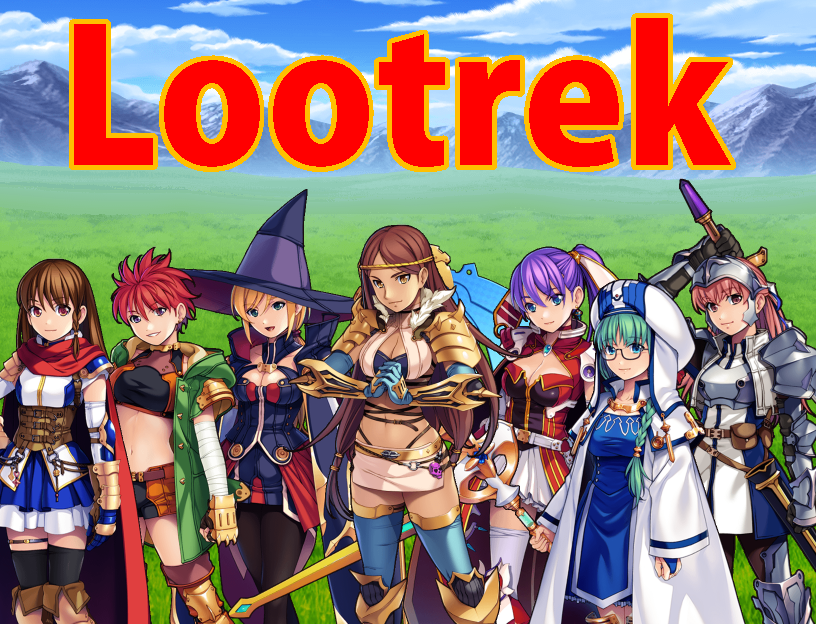
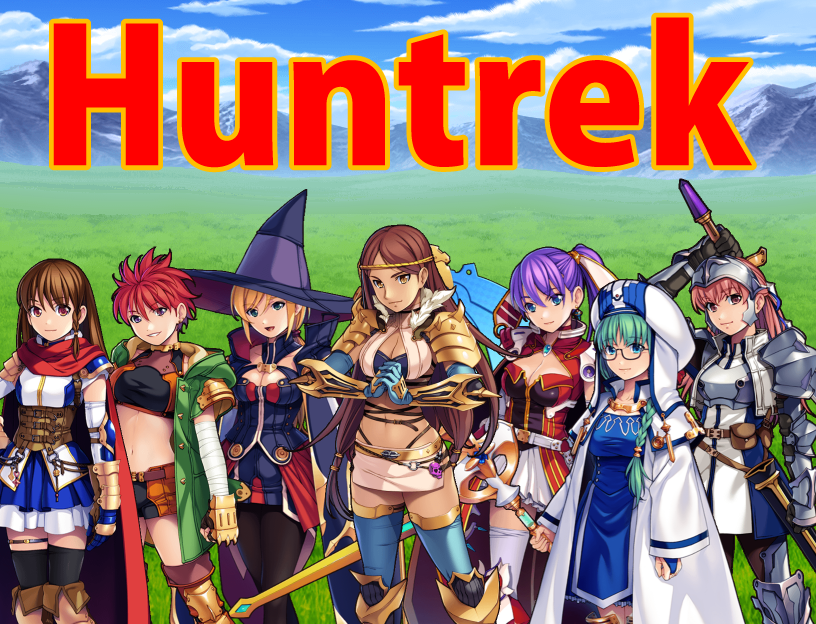
change title

diff --git a/README.md b/README.md
@@ -1,8 +1,8 @@
-# Lootrek
+# Huntrek
 
-![Lootrek Title Screen](screenshots/title_en.png)
+![Huntrek Title Screen](screenshots/title_en.png)
 
-**Lootrek** is a casual, loot-focused mini RPG currently in development with RPG Maker MZ.  
+**Huntrek** is a casual, loot-focused mini RPG currently in development with RPG Maker MZ.  
 Explore a randomized dungeon, defeat enemies, and collect powerful items in a bite-sized adventure.  
 Designed for players who enjoy light hack-and-slash gameplay and surprise item drops.
 
@@ -41,7 +41,7 @@ You can follow the progress on:
 
 © 2025 Munokura. All rights reserved.
 
-You are welcome to quote or reference the contents of this repository for educational or informational purposes, as long as you clearly attribute the source **with a visible URL link to the original repository** (e.g., https://github.com/munokura/Lootrek).
+You are welcome to quote or reference the contents of this repository for educational or informational purposes, as long as you clearly attribute the source **with a visible URL link to the original repository** (e.g., https://github.com/munokura/Huntrek).
 
 > **Reposting large portions of the text, images, or other materials without permission is not allowed.**
 
@@ -50,4 +50,4 @@ All content remains under copyright and may not be reused for commercial purpose
 
 ---
 
-Thank you for your interest in *Lootrek*!  
+Thank you for your interest in *Huntrek*!  
